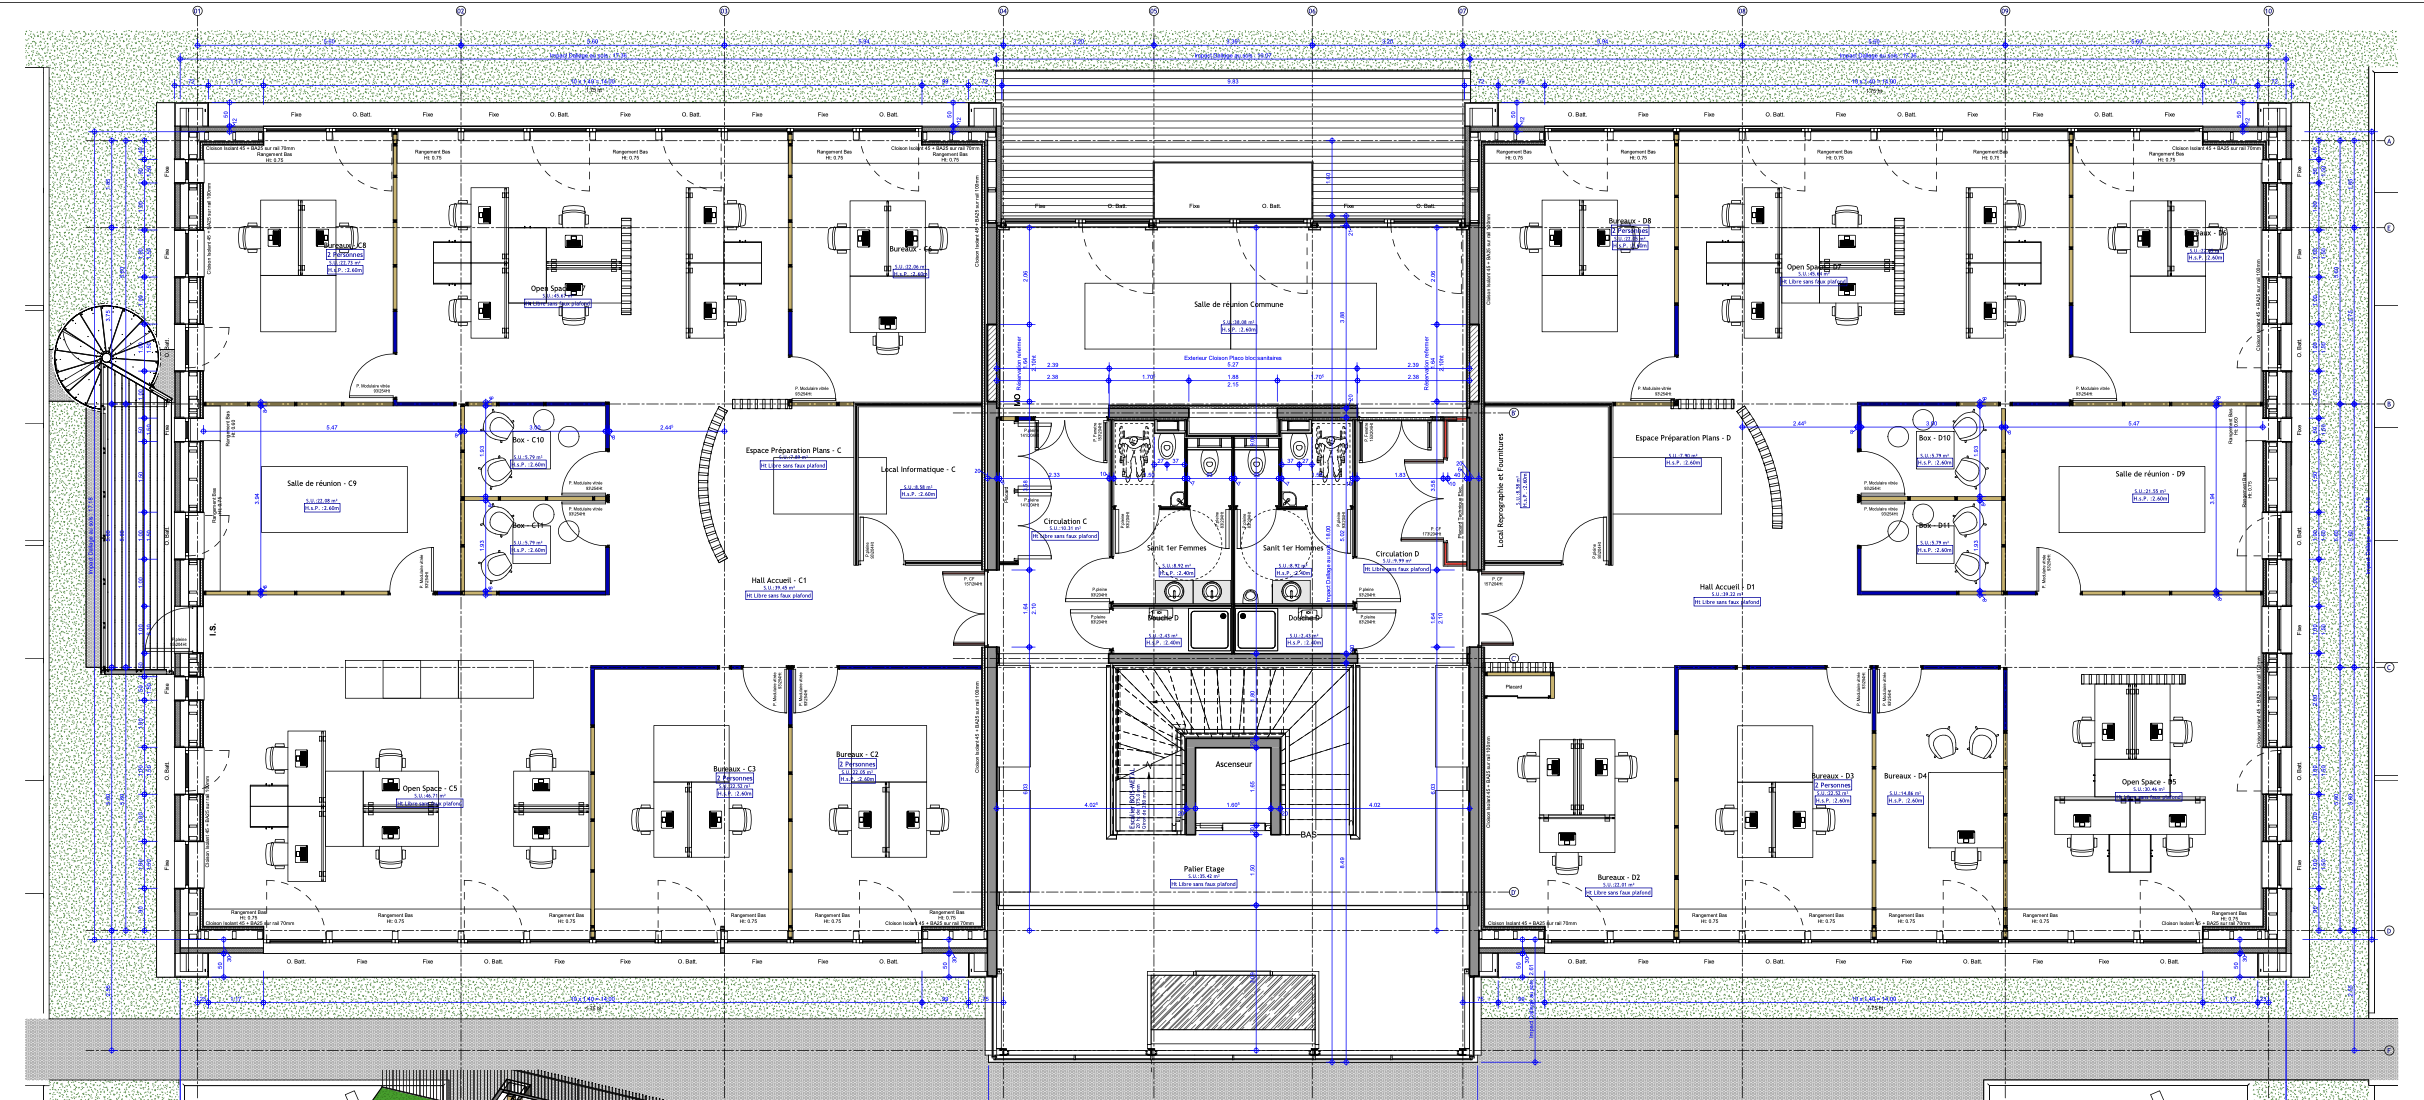
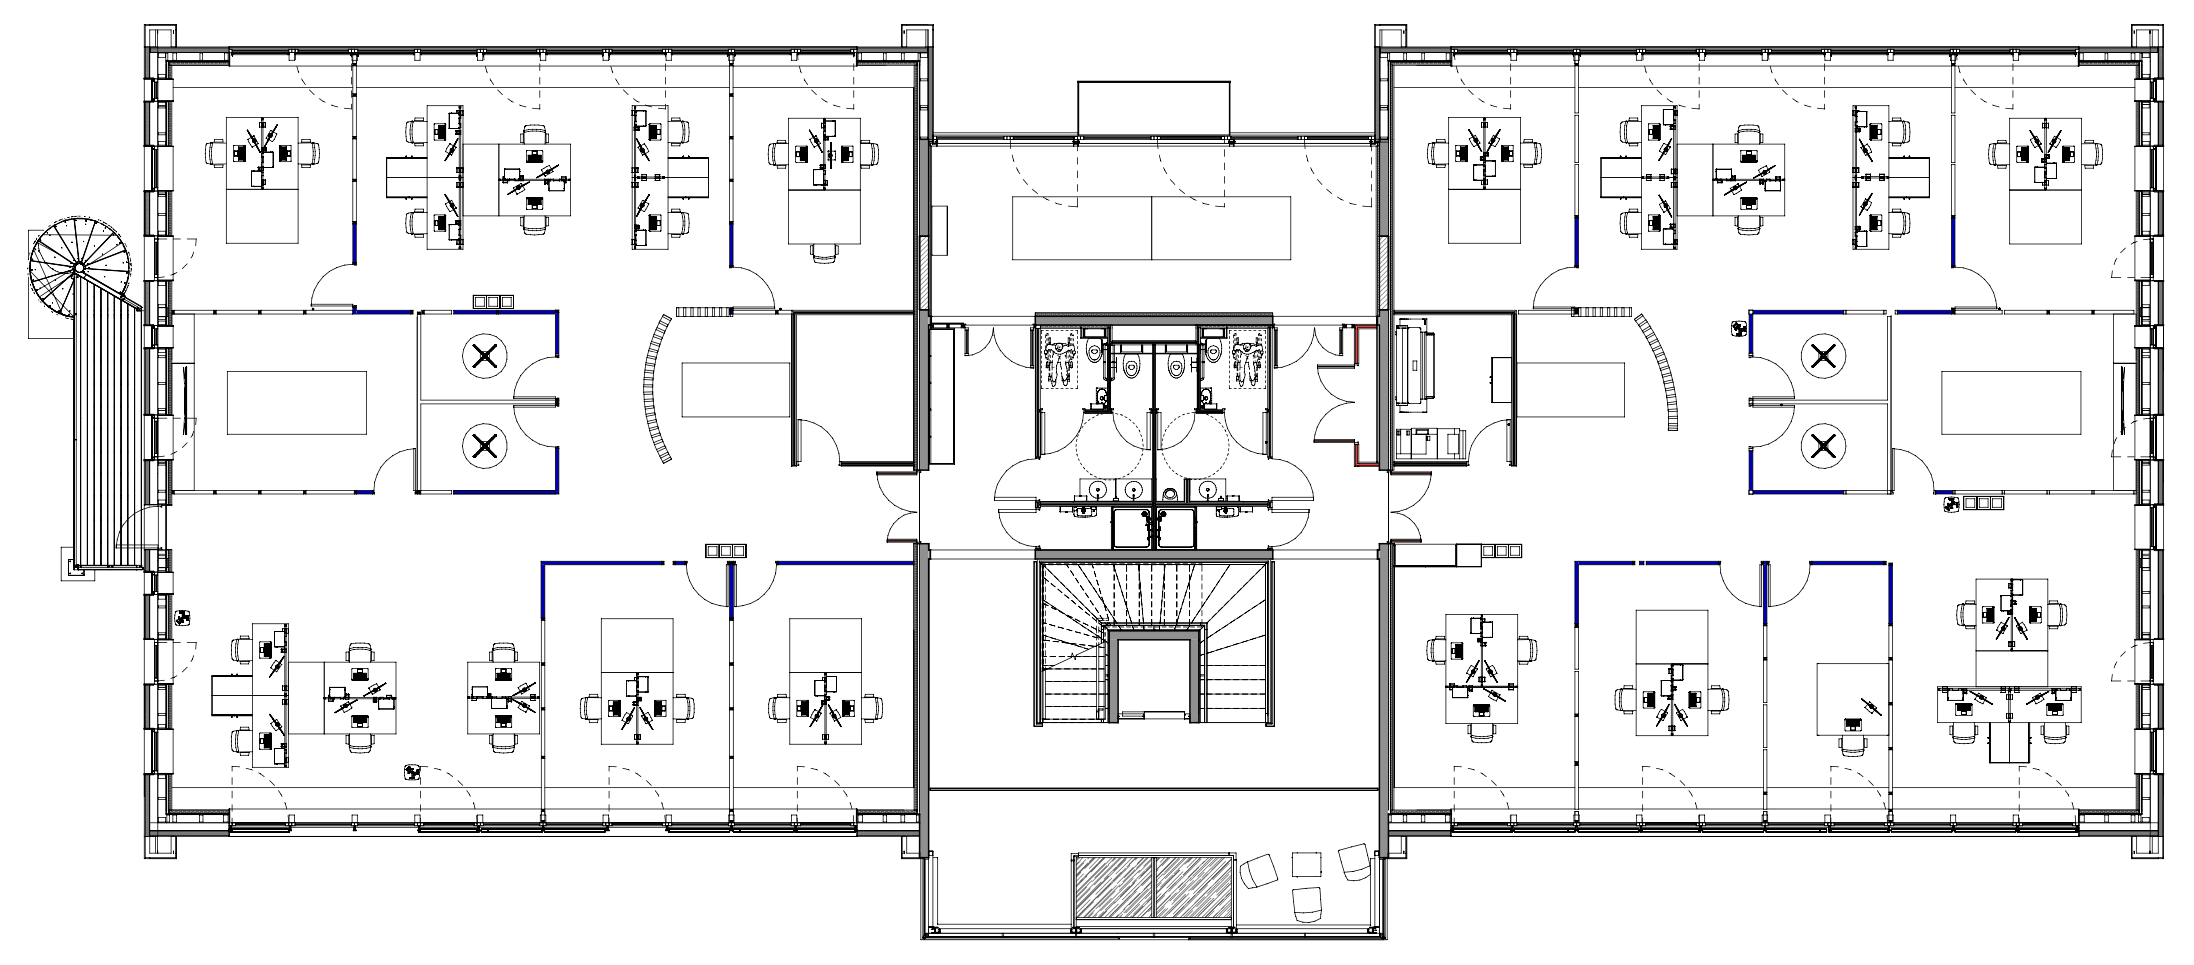
switch to displaying droplets instead of square + position

diff --git a/potain05/index.html b/potain05/index.html
@@ -27,11 +27,19 @@
         <button onclick="start()">Commencer</button>
     </p>
     <div class="img-holder">
-        <img src="images/fond.png" width="727" height="330" alt="Plan Cecolyon">
-        <div id="bureau-1" class="zone inactive" style="width:50px; height: 50px; top: 0; left: 0;"></div>
-        <div id="bureau-2" class="zone inactive" style="width:50px; height: 50px; top: 55px; left: 0;"></div>
-        <div id="bureau-3" class="zone inactive" style="width:50px; height: 50px; top: 0; left: 55px;"></div>
-        <div id="bureau-4" class="zone inactive" style="width:50px; height: 50px; top: 55px; left: 55px;"></div>
+        <img src="images/fond.png" width="731" height="322" alt="Plan Cecolyon">
+        <!-- left -->
+        <div id="bureau-01" class="zone inactive" style="width: 68px; height: 85px; top: 18px; left: 53px;"></div>
+        <div id="bureau-02" class="zone inactive" style="width: 65px; height: 85px; top: 18px; left: 243px;"></div>
+        <div id="bureau-03" class="zone inactive" style="width: 85px; height: 60px; top: 105px; left: 53px;"></div>
+        <div id="bureau-04" class="zone inactive" style="width: 60px; height: 90px; top: 185px; left: 245px;"></div>
+        <div id="bureau-05" class="zone inactive" style="width: 63px; height: 90px; top: 185px; left: 180px;"></div>
+        <!-- right -->
+        <div id="bureau-11" class="zone inactive" style="width: 68px; height: 85px; top: 18px; left: 458px;"></div>
+        <div id="bureau-12" class="zone inactive" style="width: 65px; height: 85px; top: 18px; left: 648px;"></div>
+        <div id="bureau-13" class="zone inactive" style="width: 85px; height: 60px; top: 105px; left: 630px;"></div>
+        <div id="bureau-14" class="zone inactive" style="width: 40px; height: 90px; top: 185px; left: 589px;"></div>
+        <div id="bureau-15" class="zone inactive" style="width: 63px; height: 90px; top: 185px; left: 524px;"></div>
         <span class="success stamp hidden">FÉLICITATIONS 🎉</span>
         <span class="failure stamp hidden">PERDU 😞</span>
     </div>

diff --git a/potain05/assets/style.css b/potain05/assets/style.css
@@ -86,10 +86,14 @@ a {
 .img-holder .zone {
     position: absolute;
     display: block;
-    background-color: #c6ff50;
+    background-image: url("../images/gouttes.png");
+    background-size: contain;
+    background-repeat: repeat;
+    background-position: center;
+    filter: invert(71%) sepia(80%) saturate(342%) hue-rotate(72deg) brightness(102%) contrast(100%);
 }
 
 .img-holder .zone.inactive,
 .img-holder .zone.fade-out {
-    background-color: transparent;
+    opacity: 0;
 }

diff --git a/potain05/assets/jeu.js b/potain05/assets/jeu.js
@@ -52,7 +52,7 @@ function round() {
     let zone = zones[Math.floor(Math.random() * zones.length)];
     zone.classList.remove("inactive");
     setTimeout(function() {
-        zone.style.transition = `background-color ${timeBetween-(MIN_TIME_BETWEEN / 2)}ms`;
+        zone.style.transition = `opacity ${timeBetween-(MIN_TIME_BETWEEN / 2)}ms`;
     }, 100);
     setTimeout(function () {
         zone.classList.add("fade-out");
